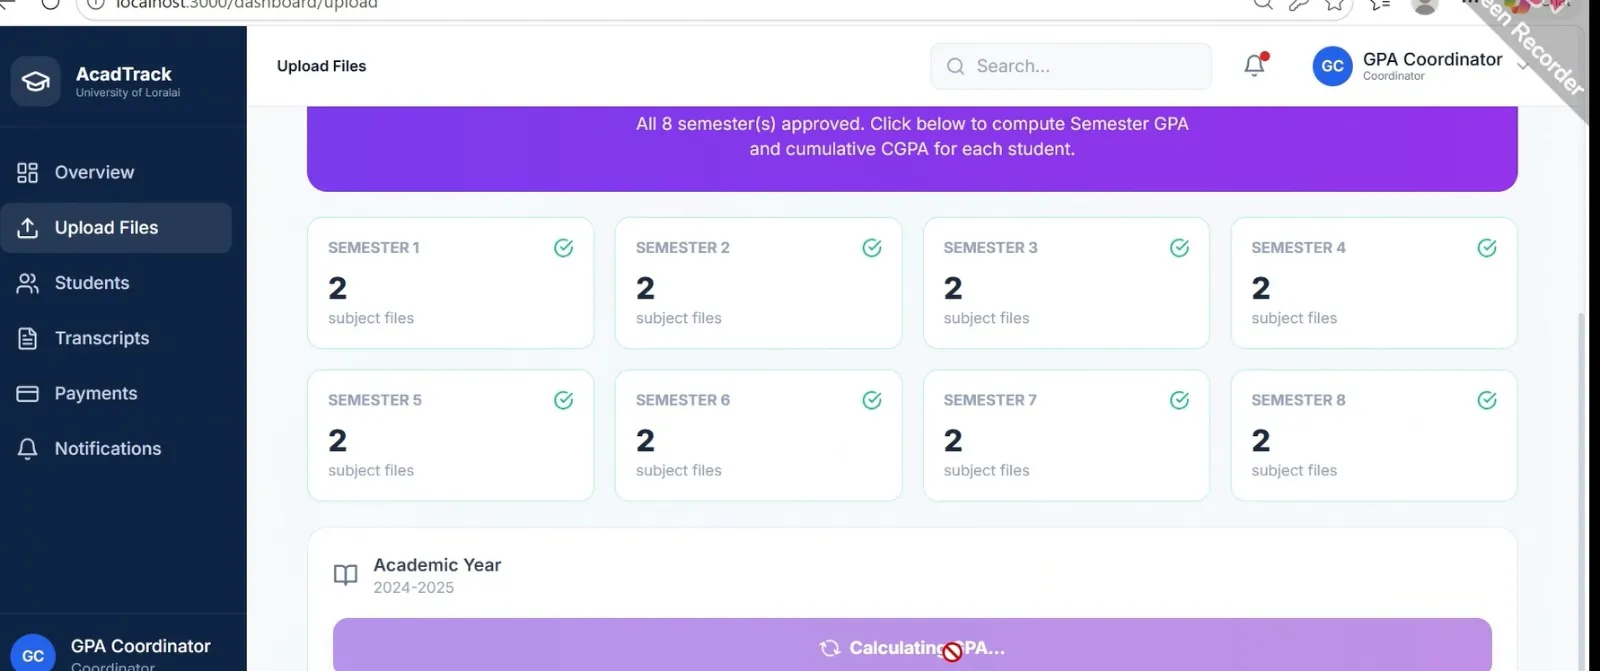
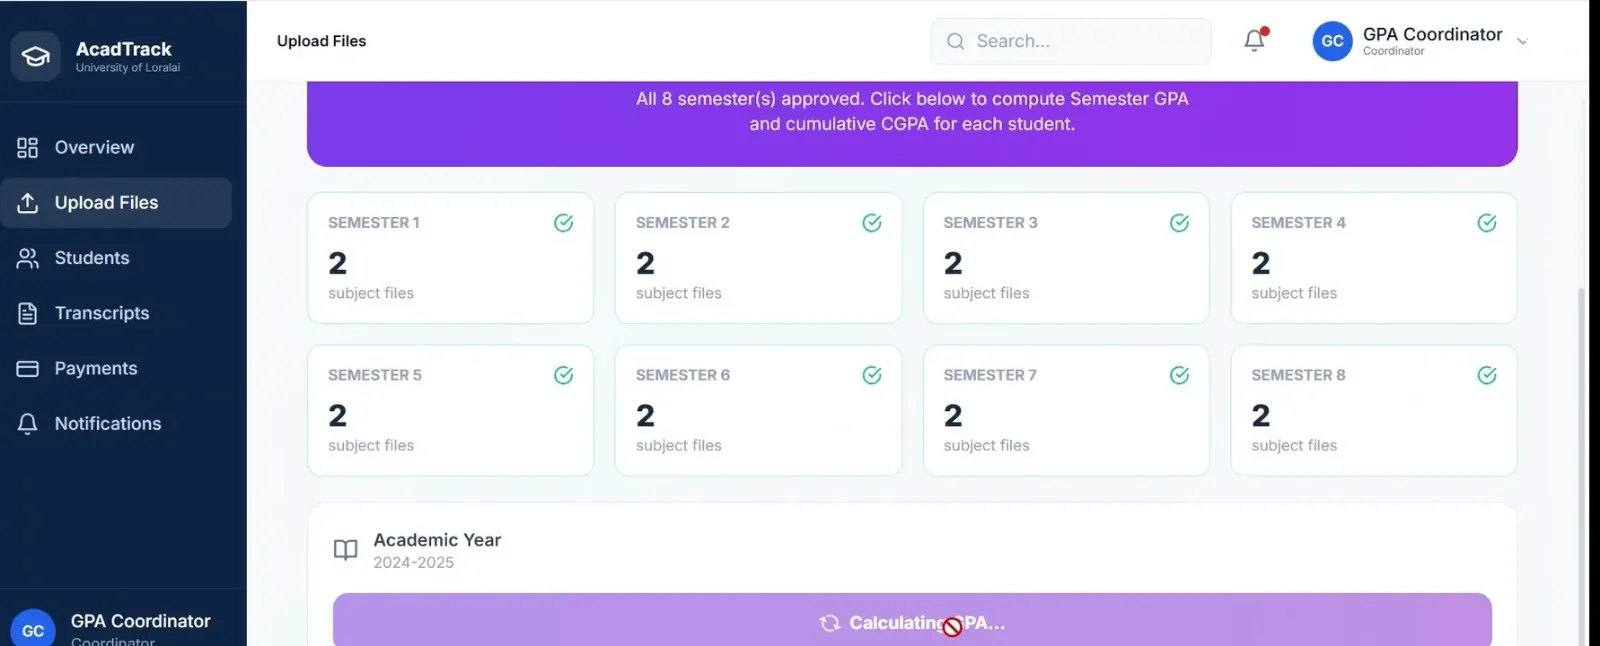
Clean project screenshots: remove watermark, address bar, Deploy menu, fix NeuroAI title, demo patient

diff --git a/src/data/content.ts b/src/data/content.ts
@@ -135,7 +135,7 @@ export const content = {
         {
           src: "/images/projects/uoli-ai-assistant/02-multi-turn-qa.webp",
           width: 1579,
-          height: 786,
+          height: 726,
           alt: "Multi-turn conversation answering university questions",
           caption: "Multi-turn answers on admissions, fees and faculty from 7,021 documents",
         },
@@ -271,14 +271,14 @@ export const content = {
         {
           src: "/images/projects/acadtrack/01-coordinator-dashboard.webp",
           width: 1600,
-          height: 671,
+          height: 646,
           alt: "Coordinator dashboard for uploading mark sheets",
           caption: "Coordinators upload and approve semester mark sheets before GPA calculation",
         },
         {
           src: "/images/projects/acadtrack/02-student-grades.webp",
           width: 1600,
-          height: 713,
+          height: 662,
           alt: "Student grades view with CGPA",
           caption: "Students see CGPA, semester breakdown and letter grades",
         },
@@ -292,7 +292,7 @@ export const content = {
         {
           src: "/images/projects/acadtrack/04-login.webp",
           width: 1600,
-          height: 669,
+          height: 610,
           alt: "Role-based login screen",
           caption: "Each role sees a different dashboard and permissions",
         },
